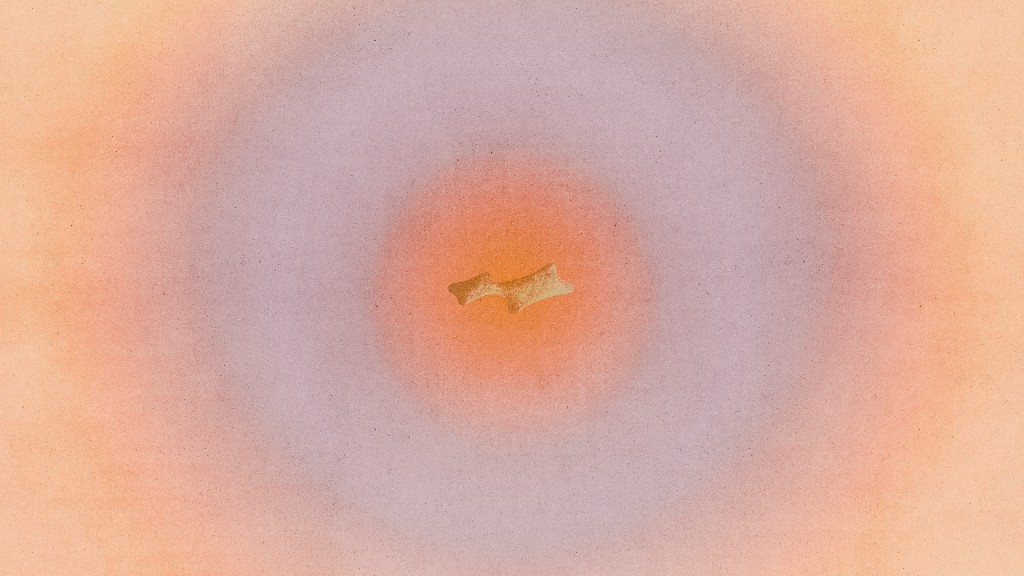
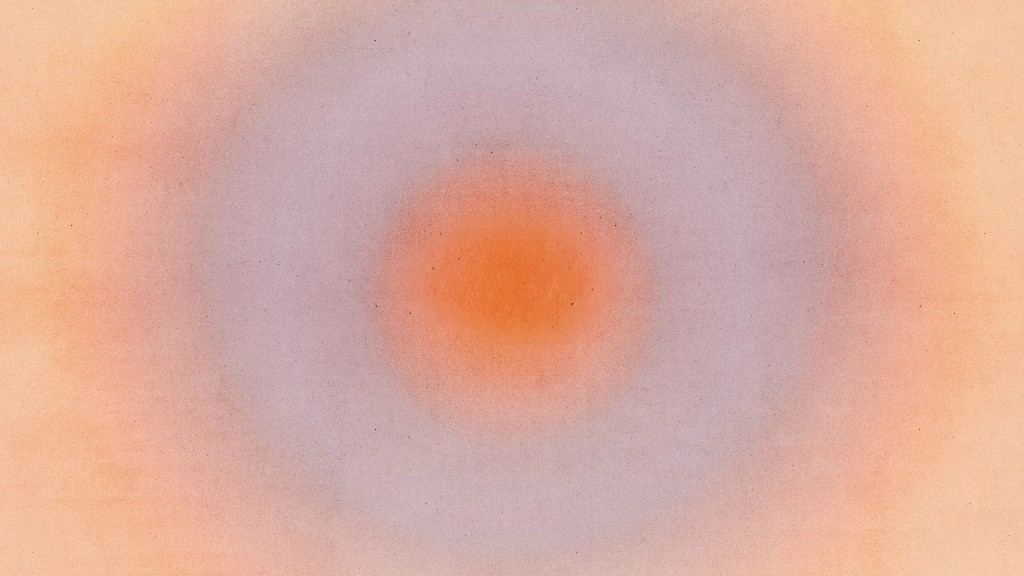
feat(modal): WORKS·CONTACT 모달 네비게이션 및 배경 스타일 적용
페이지 이동 대신 풀스크린 모달로 작업물과 문의 폼을 표시하고, 모달 배경 불투명도를 90%로 조정한다.

Changed region(s): [[0.4375, 0.4375, 0.5625, 0.5625]]

diff --git a/components/SideNav.tsx b/components/SideNav.tsx
@@ -1,49 +1,98 @@
 "use client";
 
-import Link from "next/link";
-import { usePathname } from "next/navigation";
+import { useState } from "react";
+import { Modal } from "@/components/Modal";
+import { WorkCard } from "@/components/WorkCard";
+import { TallyForm } from "@/components/TallyForm";
+import { BlurFade } from "@/components/ui/blur-fade";
+import { works } from "@/lib/works";
 
-const NAV_ITEMS = [
-  { href: "/works", label: "WORKS" },
-  { href: "/contact", label: "CONTACT" },
-];
+type ModalType = "works" | "contact" | null;
 
 export function SideNav() {
-  const pathname = usePathname();
+  const [openModal, setOpenModal] = useState<ModalType>(null);
+
+  const NAV_ITEMS: { key: ModalType; label: string }[] = [
+    { key: "works", label: "WORKS" },
+    { key: "contact", label: "CONTACT" },
+  ];
 
   return (
-    <nav
-      aria-label="섹션 네비게이션"
-      className="hidden md:flex fixed left-6 top-12 z-50 flex-col gap-5"
-    >
-      {NAV_ITEMS.map(({ href, label }) => {
-        const isActive = pathname === href || pathname.startsWith(href + "/");
-        return (
-          <Link
-            key={href}
-            href={href}
-            className="group flex items-center gap-2 transition-colors duration-200"
-          >
-            {/* 활성 인디케이터 라인 */}
-            <span
-              className={`block w-0.5 h-4 transition-all duration-300 ${
-                isActive
-                  ? "bg-foreground"
-                  : "bg-foreground/20 group-hover:bg-foreground/40"
-              }`}
-            />
-            <span
-              className={`text-xs uppercase tracking-widest font-mono transition-colors duration-200 ${
-                isActive
-                  ? "text-foreground"
-                  : "text-foreground/30 group-hover:text-foreground/60"
-              }`}
+    <>
+      <nav
+        aria-label="섹션 네비게이션"
+        className="hidden md:flex fixed left-6 top-12 z-50 flex-col gap-5"
+      >
+        {NAV_ITEMS.map(({ key, label }) => {
+          const isActive = openModal === key;
+          return (
+            <button
+              key={key}
+              onClick={() => setOpenModal(isActive ? null : key)}
+              className="group flex items-center gap-2 transition-colors duration-200 text-left"
             >
-              {label}
-            </span>
-          </Link>
-        );
-      })}
-    </nav>
+              {/* 활성 인디케이터 라인 */}
+              <span
+                className={`block w-0.5 h-4 transition-all duration-300 ${
+                  isActive
+                    ? "bg-foreground"
+                    : "bg-foreground/20 group-hover:bg-foreground/40"
+                }`}
+              />
+              <span
+                className={`text-[16px] uppercase tracking-widest font-mono transition-colors duration-200 ${
+                  isActive
+                    ? "text-foreground"
+                    : "text-foreground/30 group-hover:text-foreground/60"
+                }`}
+              >
+                {label}
+              </span>
+            </button>
+          );
+        })}
+      </nav>
+
+      {/* Works 모달 */}
+      <Modal
+        isOpen={openModal === "works"}
+        onClose={() => setOpenModal(null)}
+        title="WORKS"
+      >
+        <div className="grid grid-cols-1 sm:grid-cols-2 lg:grid-cols-3 gap-x-8 gap-y-10">
+          {works.map((work, i) => (
+            <BlurFade key={work.slug} delay={0.05 + i * 0.08} direction="up">
+              <WorkCard work={work} />
+            </BlurFade>
+          ))}
+        </div>
+      </Modal>
+
+      {/* Contact 모달 */}
+      <Modal
+        isOpen={openModal === "contact"}
+        onClose={() => setOpenModal(null)}
+        title="CONTACT"
+      >
+        <div className="flex min-h-full items-center justify-center">
+          <div className="flex w-full max-w-xl flex-col items-center justify-center gap-6">
+          <BlurFade delay={0.05} direction="up">
+            <div className="flex flex-col gap-2 text-center">
+              <h3 className="text-base uppercase leading-snug font-normal tracking-tight">
+                함께 만들 프로젝트
+              </h3>
+              <p className="text-sm text-muted-foreground leading-relaxed">
+                브랜드, 제품, 인터페이스, 콘텐츠를 함께 만들고 싶다면 간단히
+                남겨주세요.
+              </p>
+            </div>
+          </BlurFade>
+          <BlurFade delay={0.12} direction="up">
+            <TallyForm />
+          </BlurFade>
+          </div>
+        </div>
+      </Modal>
+    </>
   );
 }

diff --git a/components/Modal.tsx b/components/Modal.tsx
@@ -1,0 +1,64 @@
+"use client";
+
+import { useEffect } from "react";
+
+interface ModalProps {
+  isOpen: boolean;
+  onClose: () => void;
+  title: string;
+  children: React.ReactNode;
+}
+
+export function Modal({ isOpen, onClose, title, children }: ModalProps) {
+  // ESC 키로 닫기
+  useEffect(() => {
+    if (!isOpen) return;
+    const handleKey = (e: KeyboardEvent) => {
+      if (e.key === "Escape") onClose();
+    };
+    document.addEventListener("keydown", handleKey);
+    return () => document.removeEventListener("keydown", handleKey);
+  }, [isOpen, onClose]);
+
+  // 모달 열릴 때 배경 스크롤 잠금
+  useEffect(() => {
+    if (isOpen) {
+      document.body.style.overflow = "hidden";
+    } else {
+      document.body.style.overflow = "";
+    }
+    return () => {
+      document.body.style.overflow = "";
+    };
+  }, [isOpen]);
+
+  return (
+    <div
+      className={`fixed inset-0 z-[100] flex flex-col font-mono bg-white/90 transition-transform duration-500 ease-out ${
+        isOpen ? "translate-y-0" : "translate-y-full"
+      }`}
+    >
+      {/* 헤더 */}
+      <div className="flex items-center justify-between px-8 py-5 border-b border-black/10 shrink-0">
+        <span className="text-xs uppercase tracking-widest text-foreground/50">
+          ASH YOO
+        </span>
+        <h2 className="text-sm uppercase tracking-widest font-mono">
+          {title}
+        </h2>
+        <button
+          onClick={onClose}
+          className="text-foreground/40 hover:text-foreground transition-colors duration-200 text-lg leading-none"
+          aria-label="닫기"
+        >
+          ✕
+        </button>
+      </div>
+
+      {/* 콘텐츠 */}
+      <div className="flex-1 overflow-y-auto px-8 py-8">
+        {children}
+      </div>
+    </div>
+  );
+}

diff --git a/app/page.tsx b/app/page.tsx
@@ -4,18 +4,18 @@ import { BlurFade } from "@/components/ui/blur-fade";
 
 export default function Home() {
   const experience = [
-    { index: 0, year: "2024", title: "UX WRITING GUIDELINES FOR VINYLC" },
+    { index: 1, year: "2024", title: "UX WRITING GUIDELINES FOR VINYLC" },
     {
-      index: 1,
+      index: 2,
       year: "2024",
       title: "SERVICE STRATEGY CONSULTING FOR SKT A. (MESSENGER SERVICE)",
     },
     {
-      index: 2,
+      index: 3,
       year: "2023",
       title: "UX/UI CONSULTING FOR LOTTE DUTY FREE",
     },
-    { index: 3, year: "2022", title: "UX/UI CONSULTING FOR CJ CGV" },
+    { index: 4, year: "2022", title: "UX/UI CONSULTING FOR CJ CGV" },
   ];
 
   return (